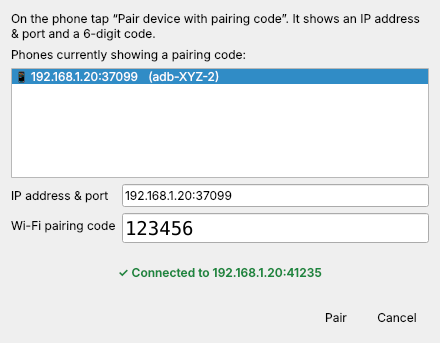
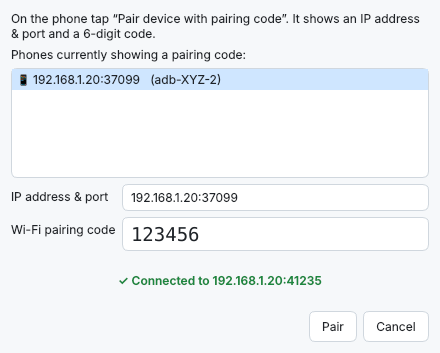
Fix unreadable text in Windows dark mode; follow system light/dark theme
The window used a hard-coded light stylesheet while Qt picked white text
from the Windows dark palette, so labels and table rows disappeared.
All colours now come from a light and a dark theme (Fusion + palette +
stylesheet) chosen from the Windows app mode and re-applied live when it
changes.

Claude-Session: https://claude.ai/code/session_01NRsrk1cnebdgHGyC99hFga

diff --git a/airdebug/ui/theme.py b/airdebug/ui/theme.py
@@ -1,0 +1,204 @@
+"""Light and dark themes that follow the Windows app mode.
+
+Every colour used by AirDebug's widgets comes from here, so text can never end
+up white-on-white (or black-on-black) when Windows switches between light and
+dark mode.
+"""
+
+from __future__ import annotations
+
+from dataclasses import dataclass
+
+from PySide6.QtCore import Qt
+from PySide6.QtGui import QColor, QGuiApplication, QPalette
+from PySide6.QtWidgets import QApplication
+
+
+@dataclass(frozen=True)
+class Theme:
+    dark: bool
+    window: str
+    base: str  # list / input background
+    alt_base: str
+    text: str
+    muted: str
+    border: str
+    button: str
+    button_hover: str
+    header: str
+    accent: str
+    accent_hover: str
+    accent_text: str
+    highlight: str
+    ok: str
+    error: str
+    disabled: str
+
+
+LIGHT = Theme(
+    dark=False,
+    window="#f6f8fa",
+    base="#ffffff",
+    alt_base="#f6f8fa",
+    text="#1f2328",
+    muted="#57606a",
+    border="#d0d7de",
+    button="#ffffff",
+    button_hover="#eef1f4",
+    header="#eaeef2",
+    accent="#1b873f",
+    accent_hover="#17733a",
+    accent_text="#ffffff",
+    highlight="#cfe6ff",
+    ok="#1b873f",
+    error="#c62828",
+    disabled="#8c959f",
+)
+
+DARK = Theme(
+    dark=True,
+    window="#1e1f22",
+    base="#26282c",
+    alt_base="#2b2d31",
+    text="#e6e6e6",
+    muted="#a0a6ad",
+    border="#3c3f45",
+    button="#2f3136",
+    button_hover="#3a3d43",
+    header="#2b2d31",
+    accent="#2ea043",
+    accent_hover="#3fb950",
+    accent_text="#ffffff",
+    highlight="#1f4a7a",
+    ok="#3fb950",
+    error="#ff7b72",
+    disabled="#6e7681",
+)
+
+_current: Theme = LIGHT
+
+
+def current() -> Theme:
+    return _current
+
+
+def system_is_dark() -> bool:
+    try:
+        return QGuiApplication.styleHints().colorScheme() == Qt.ColorScheme.Dark
+    except AttributeError:  # Qt < 6.5
+        return False
+
+
+def _palette(t: Theme) -> QPalette:
+    p = QPalette()
+    c = QColor
+    roles = {
+        QPalette.Window: t.window,
+        QPalette.WindowText: t.text,
+        QPalette.Base: t.base,
+        QPalette.AlternateBase: t.alt_base,
+        QPalette.Text: t.text,
+        QPalette.Button: t.button,
+        QPalette.ButtonText: t.text,
+        QPalette.ToolTipBase: t.base,
+        QPalette.ToolTipText: t.text,
+        QPalette.PlaceholderText: t.muted,
+        QPalette.Highlight: t.highlight,
+        QPalette.HighlightedText: t.text,
+        QPalette.Link: t.accent,
+        QPalette.BrightText: t.error,
+    }
+    for role, color in roles.items():
+        p.setColor(QPalette.All, role, c(color))
+    for role in (QPalette.WindowText, QPalette.Text, QPalette.ButtonText):
+        p.setColor(QPalette.Disabled, role, c(t.disabled))
+    return p
+
+
+def _check_path() -> str:
+    from .. import paths
+
+    return paths.resource("check.svg").as_posix()
+
+
+def stylesheet(t: Theme) -> str:
+    return f"""
+QWidget {{ color: {t.text}; }}
+QMainWindow, QDialog {{ background: {t.window}; }}
+QLabel#title {{ font-size: 18px; font-weight: 700; color: {t.text}; }}
+QLabel#muted {{ color: {t.muted}; }}
+QPushButton {{
+    background: {t.button}; color: {t.text};
+    border: 1px solid {t.border}; border-radius: 6px; padding: 7px 12px;
+}}
+QPushButton:hover {{ background: {t.button_hover}; }}
+QPushButton:disabled {{ color: {t.disabled}; }}
+QPushButton#primary {{
+    background: {t.accent}; color: {t.accent_text}; border: none; font-weight: 600; padding: 8px 14px;
+}}
+QPushButton#primary:hover {{ background: {t.accent_hover}; }}
+QTreeWidget, QListWidget, QLineEdit, QComboBox {{
+    background: {t.base}; color: {t.text};
+    border: 1px solid {t.border}; border-radius: 6px;
+}}
+QLineEdit, QComboBox {{ padding: 4px 6px; }}
+QTreeWidget::item, QListWidget::item {{ padding: 3px 2px; }}
+QTreeWidget::item:selected, QListWidget::item:selected {{ background: {t.highlight}; color: {t.text}; }}
+QHeaderView::section {{
+    background: {t.header}; color: {t.text};
+    border: none; border-bottom: 1px solid {t.border}; padding: 5px 6px; font-weight: 600;
+}}
+QCheckBox {{ color: {t.text}; spacing: 6px; }}
+QCheckBox:disabled {{ color: {t.disabled}; }}
+QCheckBox::indicator, QTreeWidget::indicator {{
+    width: 14px; height: 14px; border-radius: 3px;
+    border: 1px solid {t.muted}; background: {t.base};
+}}
+QCheckBox::indicator:checked, QTreeWidget::indicator:checked {{
+    border: 1px solid {t.accent}; background: {t.accent}; image: url({_check_path()});
+}}
+QCheckBox::indicator:disabled {{ border-color: {t.border}; background: {t.alt_base}; }}
+QMenu {{ background: {t.base}; color: {t.text}; border: 1px solid {t.border}; }}
+QMenu::item:selected {{ background: {t.highlight}; }}
+QMenu::item:disabled {{ color: {t.muted}; }}
+QStatusBar {{ color: {t.muted}; }}
+QToolTip {{ background: {t.base}; color: {t.text}; border: 1px solid {t.border}; }}
+"""
+
+
+def apply(app: QApplication | None = None, dark: bool | None = None) -> Theme:
+    """Apply the light or dark theme to the whole application."""
+    global _current
+    app = app or QApplication.instance()
+    if dark is None:
+        dark = system_is_dark()
+    _current = DARK if dark else LIGHT
+    # Fusion renders the palette faithfully on every Windows version,
+    # unlike the native "windowsvista"/"windows11" styles.
+    app.setStyle("Fusion")
+    app.setPalette(_palette(_current))
+    app.setStyleSheet(stylesheet(_current))
+    return _current
+
+
+def follow_system(app: QApplication, on_change=None) -> None:
+    """Re-apply the theme when Windows switches between light and dark mode."""
+    try:
+        hints = QGuiApplication.styleHints()
+
+        def changed(*_):
+            apply(app)
+            if on_change:
+                on_change()
+
+        hints.colorSchemeChanged.connect(changed)
+    except AttributeError:
+        pass
+
+
+def ok_style() -> str:
+    return f"color:{_current.ok}; font-weight:600"
+
+
+def error_style() -> str:
+    return f"color:{_current.error}"

diff --git a/airdebug/ui/dialogs.py b/airdebug/ui/dialogs.py
@@ -24,6 +24,7 @@ from PySide6.QtWidgets import (
 from ..core import Cancelled, ConnectResult, Controller, QrSession, parse_host_port
 from ..discovery import PAIRING
 from ..i18n import t
+from . import theme
 from .workers import run_async
 
 
@@ -70,11 +71,11 @@ class _BaseDialog(QDialog):
             return
         if res.ok:
             self.connected.emit(res)
-            status.setStyleSheet("color:#1b873f; font-weight:600")
+            status.setStyleSheet(theme.ok_style())
             status.setText("✓ " + res.message)
             QTimer.singleShot(1200, self.accept)
         else:
-            status.setStyleSheet("color:#c62828")
+            status.setStyleSheet(theme.error_style())
             status.setText(res.message)
 
 
@@ -150,7 +151,7 @@ class QrPairDialog(_BaseDialog):
         if err == Cancelled.__name__:
             return
         self.btn_new.setEnabled(True)
-        self.status.setStyleSheet("color:#c62828")
+        self.status.setStyleSheet(theme.error_style())
         self.status.setText(t("qr_timeout") if "QR" in err or "time" in err.lower() else err)
 
 
@@ -256,7 +257,7 @@ class CodePairDialog(_BaseDialog):
         if not self._alive():
             return
         self.btn_pair.setEnabled(True)
-        self.status.setStyleSheet("color:#c62828")
+        self.status.setStyleSheet(theme.error_style())
         self.status.setText(msg)
 
 
@@ -290,7 +291,7 @@ class ConnectDialog(_BaseDialog):
         try:
             host, port = parse_host_port(self.addr.text())
         except ValueError as e:
-            self.status.setStyleSheet("color:#c62828")
+            self.status.setStyleSheet(theme.error_style())
             self.status.setText(str(e))
             return
         self.btn.setEnabled(False)

diff --git a/airdebug/ui/main_window.py b/airdebug/ui/main_window.py
@@ -35,20 +35,6 @@ from .workers import run_async
 
 log = logging.getLogger(__name__)
 
-STYLE = """
-QMainWindow { background: #f6f8fa; }
-QPushButton#primary {
-    background: #1b873f; color: white; border: none; border-radius: 6px;
-    padding: 8px 14px; font-weight: 600;
-}
-QPushButton#primary:hover { background: #17733a; }
-QPushButton { padding: 7px 12px; border-radius: 6px; }
-QTreeWidget { background: white; border: 1px solid #d0d7de; border-radius: 6px; }
-QLabel#title { font-size: 18px; font-weight: 700; }
-QLabel#muted { color: #57606a; }
-"""
-
-
 @dataclass
 class Row:
     name: str
@@ -80,7 +66,6 @@ class MainWindow(QMainWindow):
         self.setWindowIcon(self.icon_on)
         self.setWindowTitle(f"AirDebug {__version__}")
         self.resize(760, 480)
-        self.setStyleSheet(STYLE)
 
         self._build_ui()
         self._build_tray()

diff --git a/airdebug/app.py b/airdebug/app.py
@@ -100,6 +100,11 @@ def main(argv: list[str] | None = None) -> int:
     app.setWindowIcon(QIcon(str(paths.resource("icon.png"))))
     app.setQuitOnLastWindowClosed(False)  # keep running in the tray
 
+    from .ui import theme
+
+    theme.apply(app)
+    theme.follow_system(app)
+
     # --- single instance: a second launch just shows the running window ---
     sock = QLocalSocket()
     sock.connectToServer(SINGLETON_KEY)

diff --git a/README.id.md b/README.id.md
@@ -35,11 +35,13 @@ Debug aplikasi di HP Android biasanya terganggu salah satu dari dua hal ini:
 | 🔌 **USB → Wi-Fi** | Untuk HP lama (Android 10 ke bawah): colok sekali, klik, cabut. |
 | 📦 **Tanpa instalasi rumit** | Cukup satu file `.exe`. Kalau `adb` belum ada, AirDebug mengunduh Platform-Tools resmi dari Google. |
 | 🌐 **Bahasa Indonesia & English** | Mengikuti bahasa Windows secara otomatis. |
+| 🌗 **Mode terang & gelap** | Otomatis mengikuti tema Windows, bahkan saat aplikasi sedang berjalan. |
 
 Setelah tersambung, HP muncul di `adb devices`, Android Studio, VS Code, Flutter, React Native, scrcpy, dan semua alat lain yang memakai adb.
 
 <p align="center">
   <img src="docs/images/main.png" width="720" alt="Jendela utama AirDebug"><br>
+  <img src="docs/images/main-dark.png" width="720" alt="Dark mode"><br>
   <img src="docs/images/qr.png" height="300" alt="Pairing QR"> &nbsp;
   <img src="docs/images/code.png" height="300" alt="Pairing dengan kode">
 </p>

diff --git a/README.md b/README.md
@@ -35,11 +35,13 @@ Debugging an Android phone usually means one of two annoyances:
 | 🔌 **USB → Wi-Fi** | For older phones (Android ≤ 10): plug in once, click, unplug. |
 | 📦 **No setup** | One `.exe`. If `adb` isn't installed, AirDebug downloads Google's official Platform-Tools for you. |
 | 🌐 **English & Bahasa Indonesia** | Picks your Windows language automatically. |
+| 🌗 **Light & dark mode** | Follows the Windows app theme automatically, even while running. |
 
 Once connected, the phone shows up in `adb devices`, Android Studio, VS Code, Flutter, React Native, scrcpy… everything that uses adb.
 
 <p align="center">
   <img src="docs/images/main.png" width="720" alt="AirDebug main window"><br>
+  <img src="docs/images/main-dark.png" width="720" alt="Dark mode"><br>
   <img src="docs/images/qr.png" height="300" alt="QR pairing"> &nbsp;
   <img src="docs/images/code.png" height="300" alt="Pairing-code dialog">
 </p>

diff --git a/CHANGELOG.md b/CHANGELOG.md
@@ -12,3 +12,4 @@ First release.
 - USB → Wi-Fi (`adb tcpip`) for Android 10 and older
 - Downloads Google's Platform-Tools automatically when adb is missing
 - English and Bahasa Indonesia UI
+- Light and dark theme that follows Windows automatically
